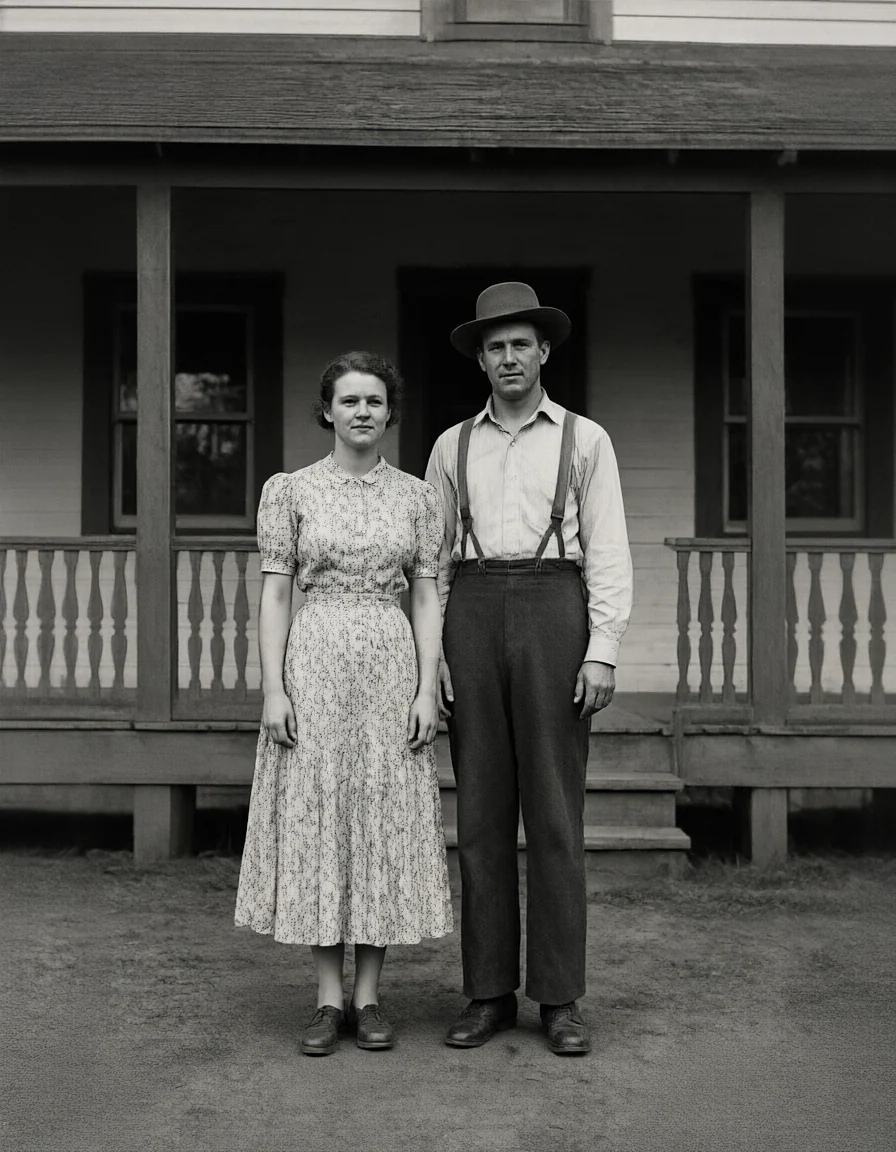
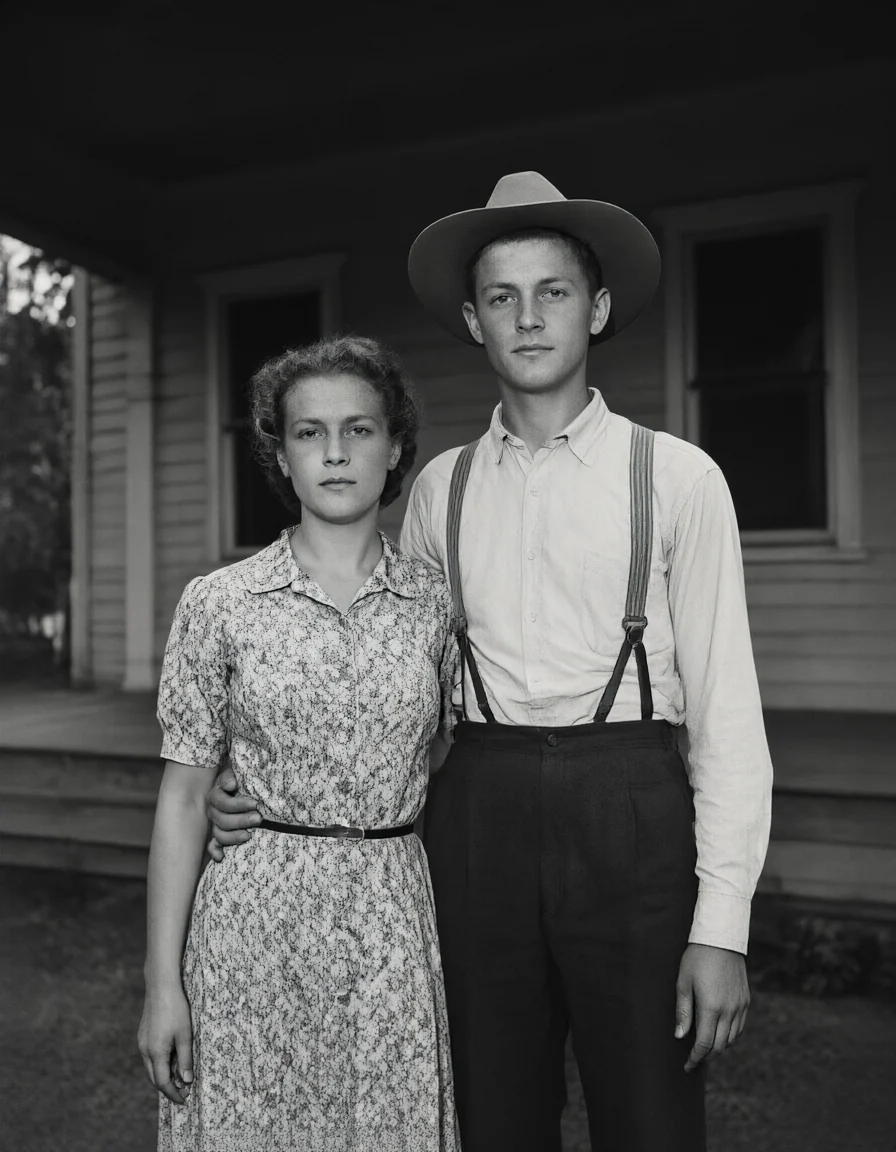
README: one more MCP client, a restoration with damaged faces, two more text examples
The restoration example now has cracks, a water stain and peeled emulsion across both faces, and the restored
and colorized versions rebuild them. Text in images adds a close-up handwritten love letter and a chalkboard
menu. The client list adds a one-line setup command for another client.

diff --git a/README.md b/README.md
@@ -3,8 +3,8 @@
 ## Make your own `<insert-image-here>`
 
 A self-hosted [Model Context Protocol](https://modelcontextprotocol.io) server that makes and edits images with
-**Qwen-Image-2.1** on your own computer. Ask for an image in VS Code, Cursor, LM Studio or any other MCP client on your
-network, and it appears in the chat.
+**Qwen-Image-2.1** on your own computer. Ask for an image in VS Code, Cursor, Claude Code, LM Studio or any other MCP
+client on your network, and it appears in the chat.
 
 > *Your GPU, your images. No cloud, no account, no content filter.*
 
@@ -31,8 +31,8 @@ network, and it appears in the chat.
 
 ## Gallery
 
-The Non-Turbo model made these images with its default quality settings, except the restoration example and the image
-to SVG sources, which Turbo made. The prompts are in the [table below](#prompts-and-settings).
+The Non-Turbo model made these images with its default quality settings. Turbo made the restoration example, the love
+letter, the menu and the image to SVG sources. The prompts are in the [table below](#prompts-and-settings).
 
 #### Make your own `Text to image`
 
@@ -64,7 +64,7 @@ is made up, damage included.
 
 <table>
 <tr>
-<td width="33%"><img src="docs/images/restore-before.webp" alt="A badly damaged old black and white photo of a couple in front of a farmhouse: torn pieces, deep cracks, water stains and mold"><br>Before</td>
+<td width="33%"><img src="docs/images/restore-before.webp" alt="A badly damaged old black and white photo of a couple: the faces cracked, stained and peeling, with torn corners and mold"><br>Before</td>
 <td width="33%"><img src="docs/images/restore-after.webp" alt="The same photo restored: clean, sharp, black and white"><br>Restored</td>
 <td width="33%"><img src="docs/images/restore-color.webp" alt="The same photo restored and colorized"><br>Restored and colorized</td>
 </tr>
@@ -74,7 +74,13 @@ is made up, damage included.
 
 Text in quotes in the prompt is written as given.
 
-<img src="docs/images/text-rendering.webp" width="45%" alt="A vintage travel poster that reads SEE THE ALPS">
+<table>
+<tr>
+<td width="33%"><img src="docs/images/text-rendering.webp" alt="A vintage travel poster that reads SEE THE ALPS"></td>
+<td width="33%"><img src="docs/images/text-letter.webp" alt="A close-up of a handwritten love letter: My dearest Clara, I count the hours until I see you again. Forever yours, Thomas"></td>
+<td width="33%"><img src="docs/images/text-menu.webp" alt="A cafe chalkboard menu: Today's menu, Espresso 2.50, Cappuccino 3.75, Croissant 3.00, Apple pie 4.25"></td>
+</tr>
+</table>
 
 #### Make your own `Transparent PNG`
 
@@ -170,6 +176,8 @@ Lettering, 3x</td>
 | Text to image | `generate_image`, 1344x768, seed 20261006 | A lighthouse on a rocky coast at sunset, waves breaking on the rocks, warm golden light, a small fishing boat in the distance, dramatic clouds, photorealistic |
 | Edit | `edit_image` with the image above, seed 7 | Make it a snowy winter night with the lighthouse beam switched on and snow on the rocks, keep everything else unchanged |
 | Text in images | `generate_image`, 768x1024, seed 31 | A vintage travel poster, flat screen-print illustration of snowy mountains above a lake with a red train on a bridge, bold title text at the top that reads "SEE THE ALPS", smaller text at the bottom that reads "By rail, every season" |
+| Love letter | `generate_image` with the Turbo model, 864x1152, seed 19 | A close-up photo of a handwritten love letter on cream paper, elegant flowing cursive in dark blue ink that reads "My dearest Clara," then "I count the hours until I see you again." then "Forever yours, Thomas", a dried red rose lying on the corner of the page, soft warm window light, shallow depth of field, photorealistic |
+| Chalkboard menu | `generate_image` with the Turbo model, 864x1152, seed 8 | A cafe chalkboard menu hanging on a brick wall, neat hand-lettered white chalk with small colored chalk drawings of a coffee cup and leaves, the title reads "TODAY'S MENU", below it four lines that read "Espresso 2.50", "Cappuccino 3.75", "Croissant 3.00" and "Apple pie 4.25", photorealistic |
 | Uncensored | `generate_image`, 768x1024, seed 505 | Iron Man in his red and gold armor standing on a rooftop at night, city lights below, cinematic lighting, photorealistic |
 | Icon | `generate_image`, 1024x1024, `transparent: true`, seed 404 | A cute cartoon rocket ship, flat vector illustration, bold outlines, bright colors |
 | Transparent | `generate_image`, 1024x1024, `transparent: true`, seed 11 | A red fox sitting, full body, soft studio light |
@@ -182,7 +190,7 @@ Lettering, 3x</td>
 | Normal map | `edit_image` with the stone tile, seed 2 | Convert `<image1>` into a normal map for a game material, keep the exact layout of every stone |
 | Watermark removal | `remove_watermark`, seed 9, on the text-to-image result with a tiled "SAMPLE" text and a corner badge added | - (no prompt needed) |
 | Upscaling | `upscale_image`, `scale: 4` on the text-to-image result | - |
-| Old photo (for the restoration) | `generate_image` with the Turbo model, 896x1152, seed 3 | A severely damaged old black and white photograph from the 1940s: a young couple standing in front of a wooden farmhouse porch, the woman in a floral dress, the man in a hat and suspenders. Heavy damage: large torn and missing pieces at the corners and edges, deep cracks running across the whole print and over the people, peeling emulsion, big brown water stains, mold spots, heavy fading and scratches everywhere, scanned photo |
+| Old photo (for the restoration) | `generate_image` with the Turbo model, 896x1152, seed 27 | A severely damaged old black and white photograph from the 1940s: a young couple standing in front of a wooden farmhouse porch, the woman in a floral dress, the man in a hat and suspenders, framed from the knees up so their faces are large. Heavy damage over their faces: a deep crack runs straight across both faces, a brown water stain covers half of the woman's face, the emulsion has peeled off one side of the man's face and hat, scratches and dust over their eyes. Also torn missing corners, mold spots and heavy fading, scanned photo |
 | Restored | `edit_image` with the old photo, Turbo model, seed 5 | Restore this old photograph: remove every scratch, crease, stain, dust spot and the torn corner, fill in the missing parts, fix the faded contrast, keep it black and white. Keep the people, their faces, poses and clothes and the whole composition exactly the same |
 | Restored and colorized | `edit_image` with the old photo, Turbo model, seed 5 | Restore and colorize this old photograph: remove every scratch, crease, stain, dust spot and the torn corner, fill in the missing parts, and add natural realistic colors. Keep the people, their faces, poses and clothes and the whole composition exactly the same |
 | Image to SVG | `vectorize_image` on the pelican, the icon, the mascot, the rose and the logo | - |
@@ -399,6 +407,12 @@ The endpoint is `http://<host>:5005/mcp` (Streamable HTTP).
 
 ```json
 { "mcpServers": { "imagegen": { "url": "http://localhost:5005/mcp" } } }
+```
+
+**Claude Code**: run this once in a terminal:
+
+```bash
+claude mcp add --transport http imagegen http://localhost:5005/mcp
 ```
 
 **Clients that only support stdio** can connect through [mcp-remote](https://www.npmjs.com/package/mcp-remote):
